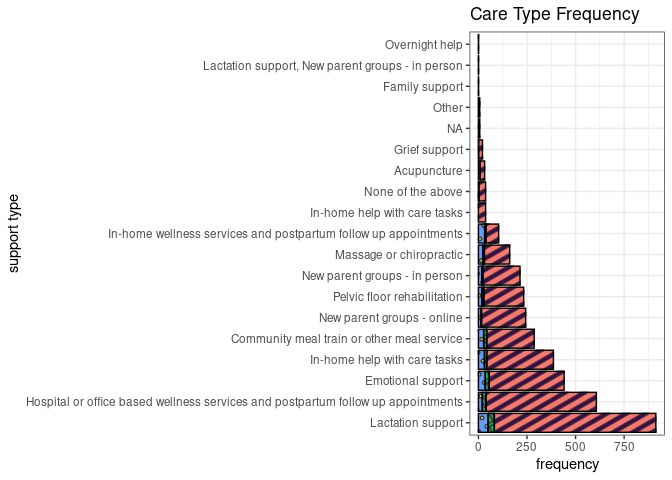
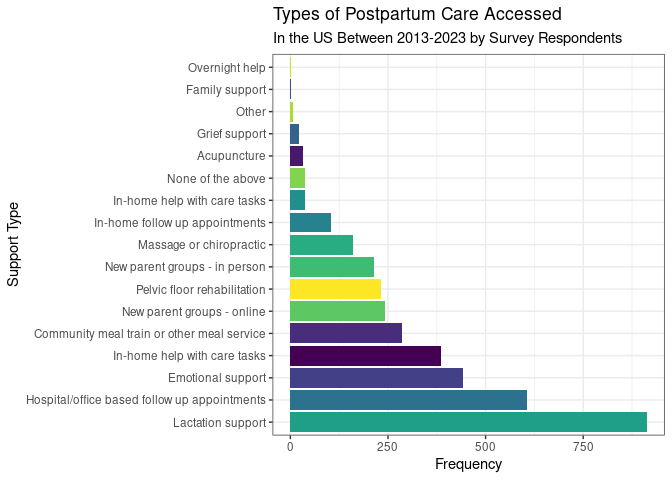
Update bar plot for critique

Changed region(s): [[0.0312, 0.0, 1.0, 1.0], [0.0, 0.4062, 0.0312, 0.5938]]

diff --git a/memo/memo.md b/memo/memo.md
@@ -163,31 +163,33 @@ Postpartum_support_type_clean <- Postpartum_support_longer |>
   mutate(support_type = ifelse(support_type ==" New parent groups - online", "New parent groups - online", support_type)) |>
   mutate(support_type = ifelse(support_type ==" Community meal train or other meal service", "Community meal train or other meal service", support_type)) |>
   mutate(support_type = ifelse(support_type ==" Hospital or office based wellness services and postpartum follow up appointments", "Hospital or office based wellness services and postpartum follow up appointments", support_type)) |>
-  mutate(support_type = ifelse(support_type ==" In-home wellness services and postpartum follow up appointments", "In-home wellness services and postpartum follow up appointments", support_type))
+  mutate(support_type = ifelse(support_type == " In-home wellness services and postpartum follow up appointments", "In-home wellness services and postpartum follow up appointments", support_type)) |>
+  mutate(support_type = ifelse(support_type == "Hospital or office based wellness services and postpartum follow up appointments", "Hospital/office based follow up appointments", support_type)) |>
+  mutate(support_type = ifelse(support_type == "In-home wellness services and postpartum follow up appointments", "In-home follow up appointments", support_type))
 ```
 
 ``` r
 unique(Postpartum_support_type_clean$support_type)
 ```
 
-    ##  [1] "Lactation support"                                                               
-    ##  [2] "Emotional support"                                                               
-    ##  [3] " In-home help with care tasks"                                                   
-    ##  [4] "Hospital or office based wellness services and postpartum follow up appointments"
-    ##  [5] "In-home wellness services and postpartum follow up appointments"                 
-    ##  [6] "Community meal train or other meal service"                                      
-    ##  [7] "New parent groups - in person"                                                   
-    ##  [8] "Massage or chiropractic"                                                         
-    ##  [9] "Acupuncture"                                                                     
-    ## [10] "New parent groups - online"                                                      
-    ## [11] "Pelvic floor rehabilitation"                                                     
-    ## [12] "Grief support"                                                                   
-    ## [13] "NA"                                                                              
-    ## [14] "None of the above"                                                               
-    ## [15] "In-home help with care tasks"                                                    
-    ## [16] "Family support"                                                                  
-    ## [17] "Overnight help"                                                                  
-    ## [18] "Lactation support, New parent groups - in person"                                
+    ##  [1] "Lactation support"                               
+    ##  [2] "Emotional support"                               
+    ##  [3] " In-home help with care tasks"                   
+    ##  [4] "Hospital/office based follow up appointments"    
+    ##  [5] "In-home follow up appointments"                  
+    ##  [6] "Community meal train or other meal service"      
+    ##  [7] "New parent groups - in person"                   
+    ##  [8] "Massage or chiropractic"                         
+    ##  [9] "Acupuncture"                                     
+    ## [10] "New parent groups - online"                      
+    ## [11] "Pelvic floor rehabilitation"                     
+    ## [12] "Grief support"                                   
+    ## [13] "NA"                                              
+    ## [14] "None of the above"                               
+    ## [15] "In-home help with care tasks"                    
+    ## [16] "Family support"                                  
+    ## [17] "Overnight help"                                  
+    ## [18] "Lactation support, New parent groups - in person"
     ## [19] "Other"
 
 ``` r
@@ -234,8 +236,6 @@ mutate(birth_location = ifelse(birth_location == "At home", "Non-Hospital", birt
 ```
 
 ``` r
- #mutate(birth_location = ifelse(birth_location == "Birthing center within a hospital", "Hospital", birth_location))
-
 #baseline <- c("Lactation support", "Pelvic floor rehabilitation",  "Emotional support",  "Hospital or office based wellness services and postpartum follow up appointments")
 
 #better <- c("")
@@ -331,17 +331,19 @@ library(ggplot2)
 library(RColorBrewer)
 
 Postpartum_support_type_clean %>%
-  ggplot(mapping = aes(x = fct_infreq(support_type), fill = birth_location)) +
-  geom_bar_pattern(
-    aes(pattern = birth_location, fill = birth_location, pattern_fill = birth_location),
-    colour                   = 'black', 
-    pattern_density          = 0.35, 
-    pattern_key_scale_factor = 1.3) +
+  filter(support_type != "NA") %>%
+  filter(support_type != "Lactation support, New parent groups - in person") %>%
+  ggplot(mapping = aes(x = fct_infreq(support_type), fill = support_type)) +
+   geom_bar() +
+  #  aes(pattern = birth_location, fill = birth_location, pattern_fill = birth_location),
+   # colour                   = 'black', 
+  #  pattern_density          = 0.35, 
+   # pattern_key_scale_factor = 1.3) +
   theme_bw() +
-  scale_pattern_fill_viridis_d() + 
+  scale_fill_viridis_d() + 
   theme(legend.position = 'none') + 
   coord_flip() +
-  labs(title = "Care Type Frequency", x = "support type", y = "frequency", fill = "hospital/non-hospital") 
+  labs(title = "Types of Postpartum Care Accessed", subtitle = "In the US Between 2013-2023 by Survey Respondents", x = "Support Type", y = "Frequency", fill = "Birth Location") 
 ```
 
 ![](memo_files/figure-gfm/care-type-frequency-1.png)<!-- -->
